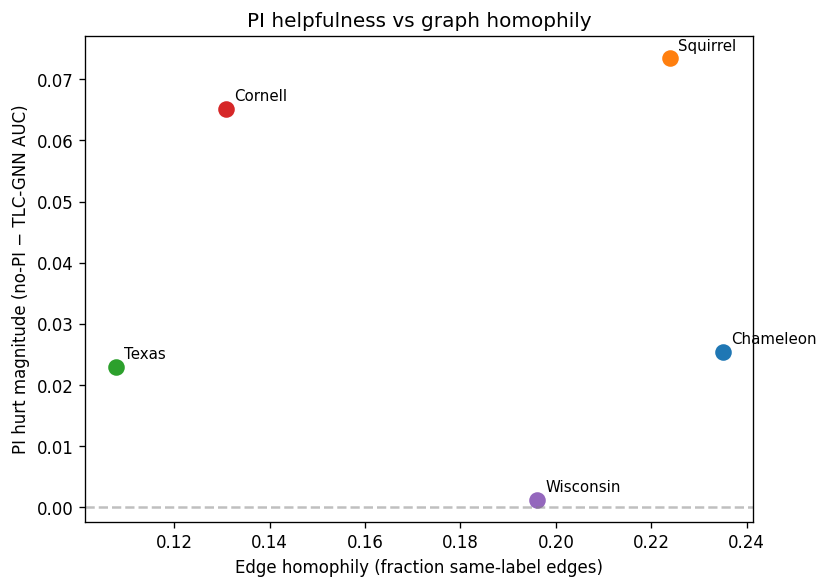
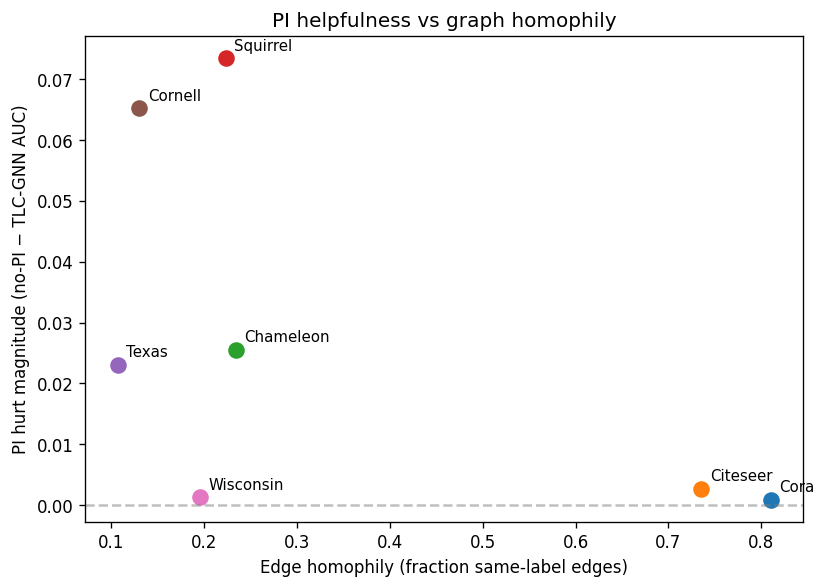
homophilic anchor + correlation

diff --git a/Knowledge_Distillation/heterophily_analysis.py b/Knowledge_Distillation/heterophily_analysis.py
@@ -32,6 +32,8 @@ def read_auc_mean(path):
 def main():
     # dataset → (tlcgnn_tag, nopi_tag)
     cfg = {
+        'Cora':      ('homo', 'homoNoPI'),
+        'Citeseer':  ('homo', 'homoNoPI'),
         'Chameleon': ('hetero', 'heteroNoPI'),
         'Squirrel':  ('hetero', 'heteroNoPI'),
         'Texas':     ('hetero', 'heteroNoPI'),